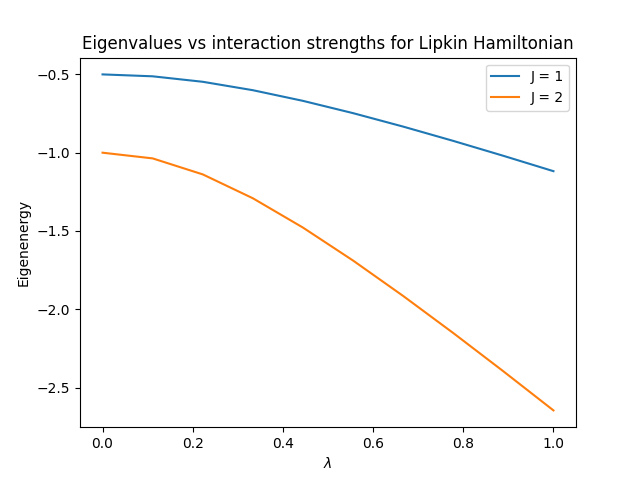
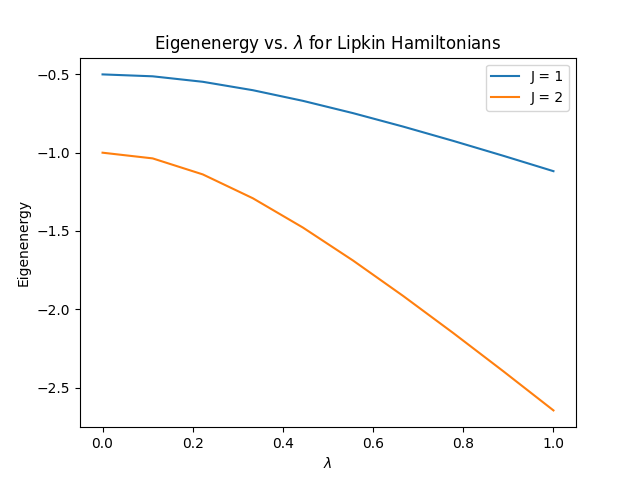
plot updates for e, f and g

Changed region(s): [[0.125, 0.0625, 0.9062, 0.125]]

diff --git a/problem_g.py b/problem_g.py
@@ -81,9 +81,9 @@ def problem_g():
     plt.plot(interaction_strengths, eigenval_J1, label="J = 1")
     plt.plot(interaction_strengths, eigenval_J2, label="J = 2")
 
-    plt.title("Eigenvalues vs Interaction strength with VQE solution for Lipkin Hamiltonian")
-    plt.xlabel("Interaction strength")
-    plt.ylabel("Eigenvalue")
+    plt.title("Eigenenergy vs. $\lambda$ for Lipkin Hamiltonians with VQE")
+    plt.xlabel(r"$\lambda$")
+    plt.ylabel("Eigenenergy")
     plt.legend()
     plt.savefig("images/problem_g.png")
     plt.show()

diff --git a/problem_f.py b/problem_f.py
@@ -60,7 +60,7 @@ def problem_f() -> None:
     plt.plot(interaction_strengths, eigenval_J1, label="J = 1")
     plt.plot(interaction_strengths, eigenval_J2, label="J = 2")
 
-    plt.title("Eigenvalues vs interaction strengths for Lipkin Hamiltonian")
+    plt.title("Eigenenergy vs. $\lambda$ for Lipkin Hamiltonians")
     plt.xlabel(r"$\lambda$")
     plt.ylabel("Eigenenergy")
     plt.legend()
